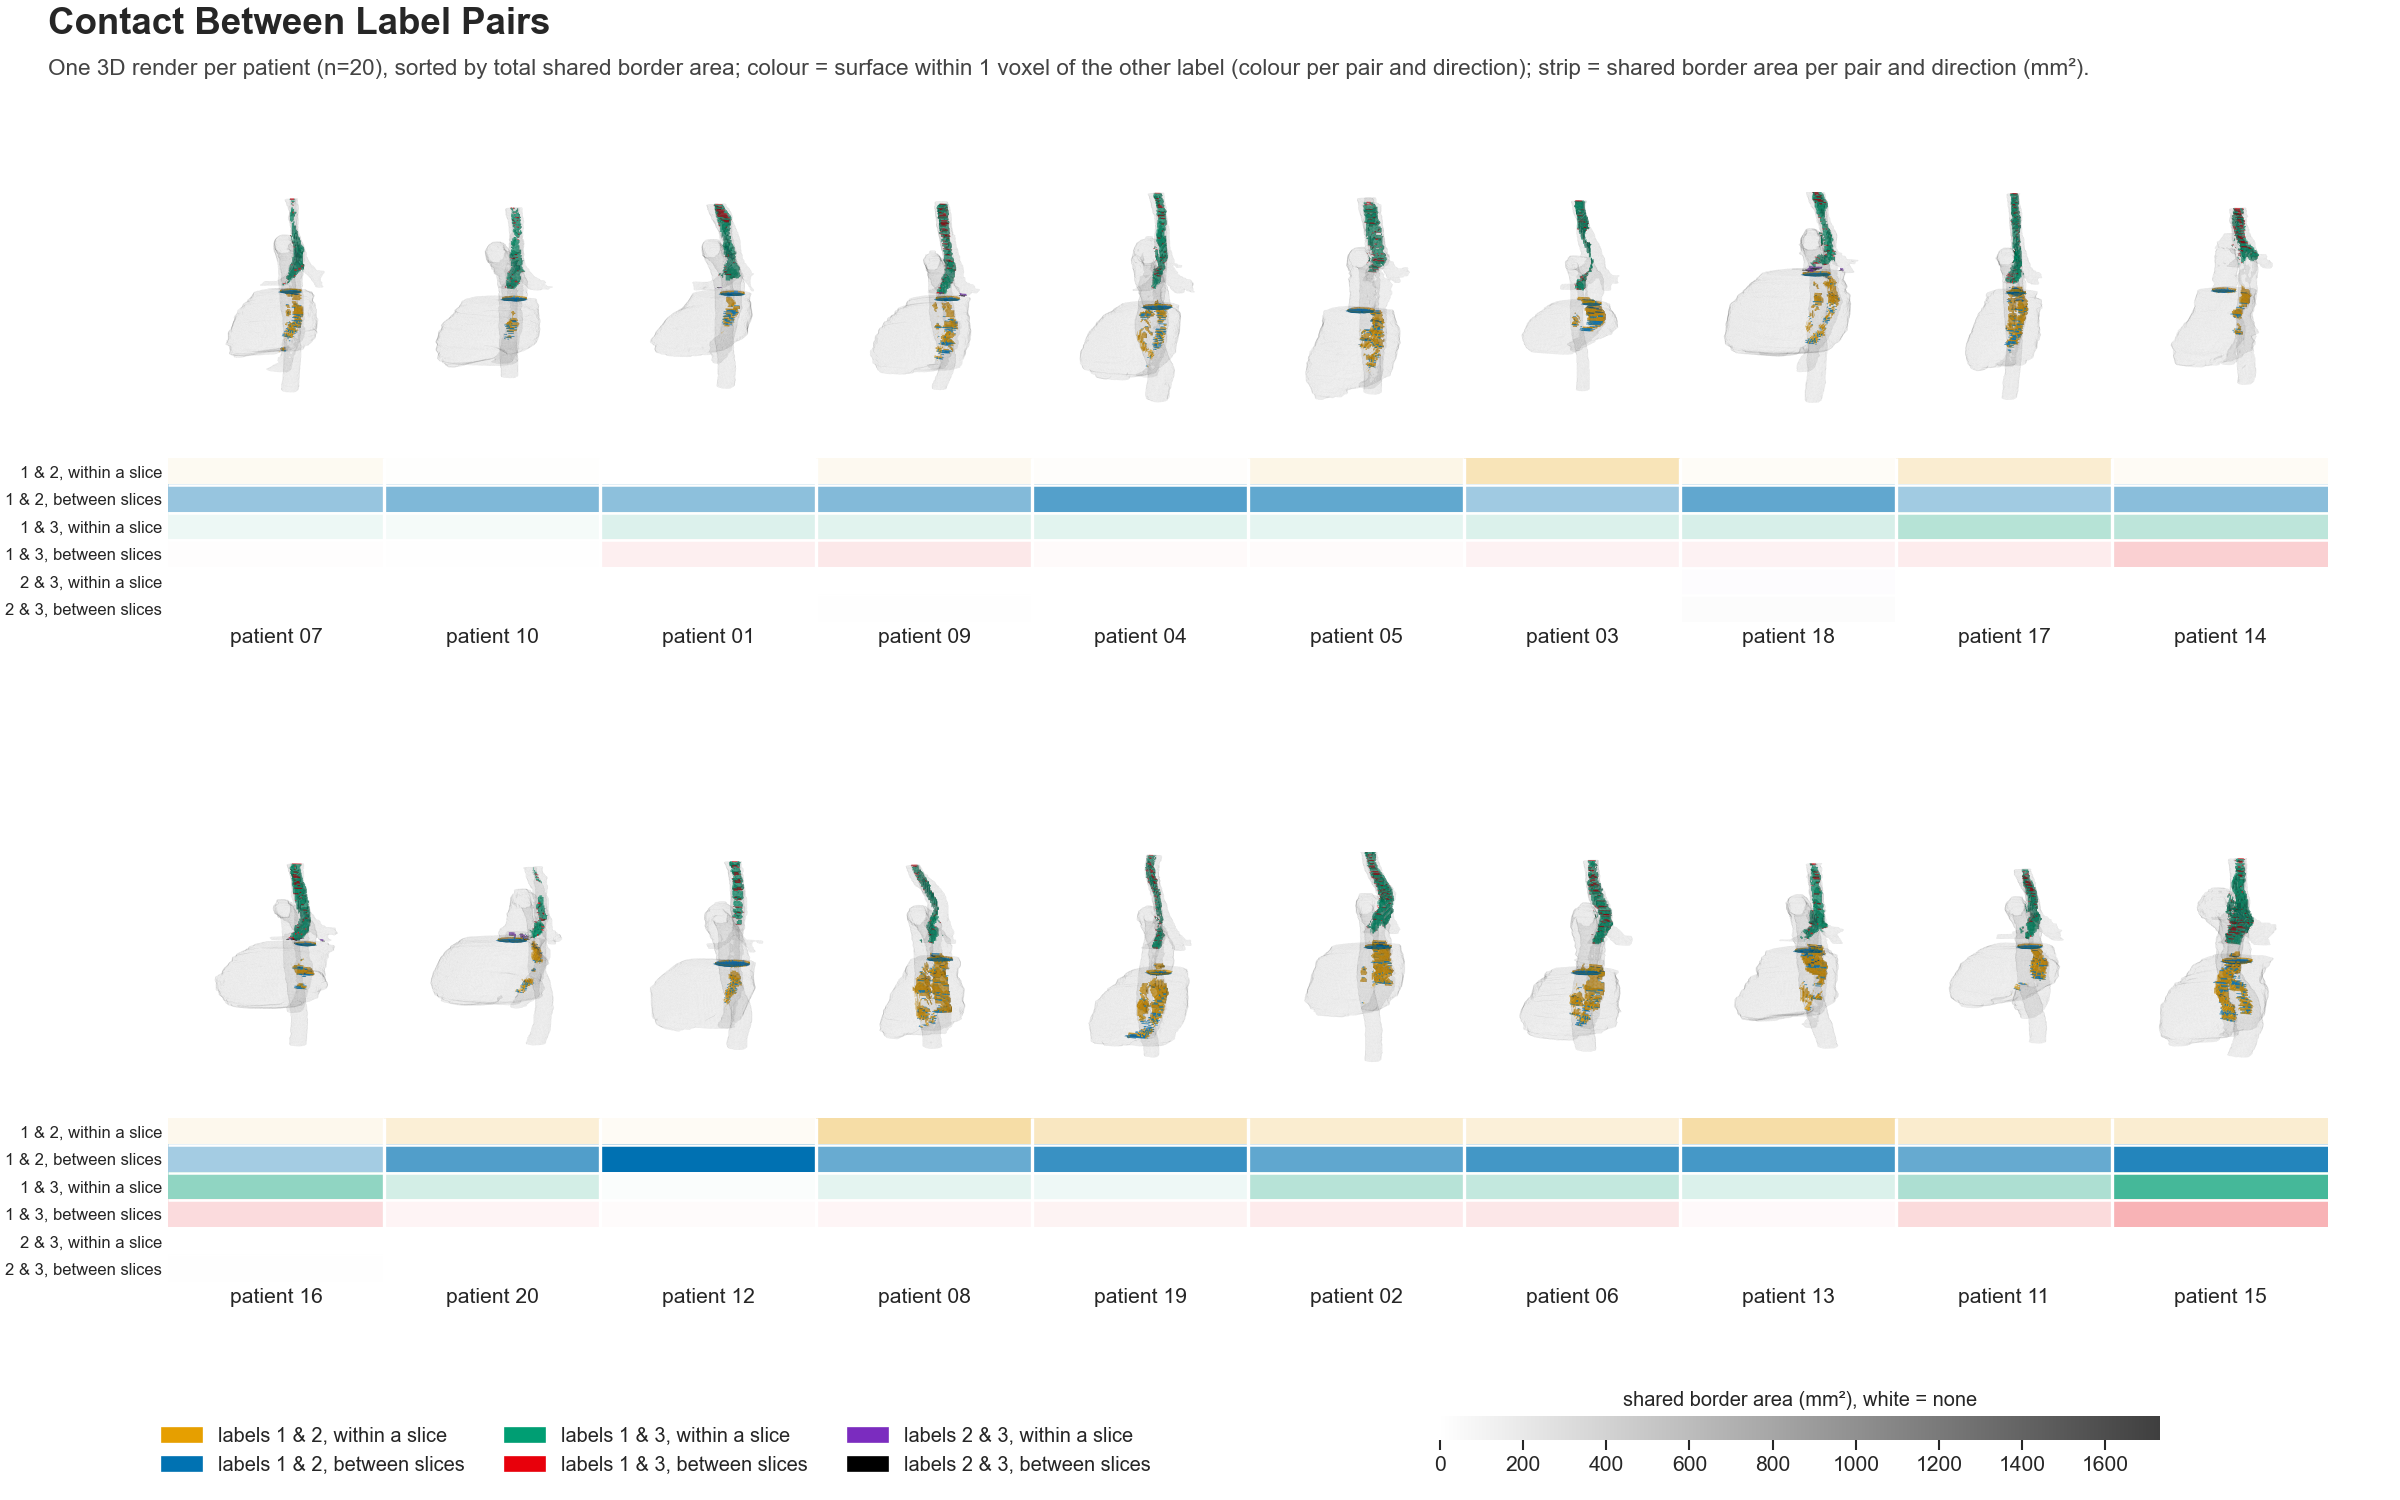
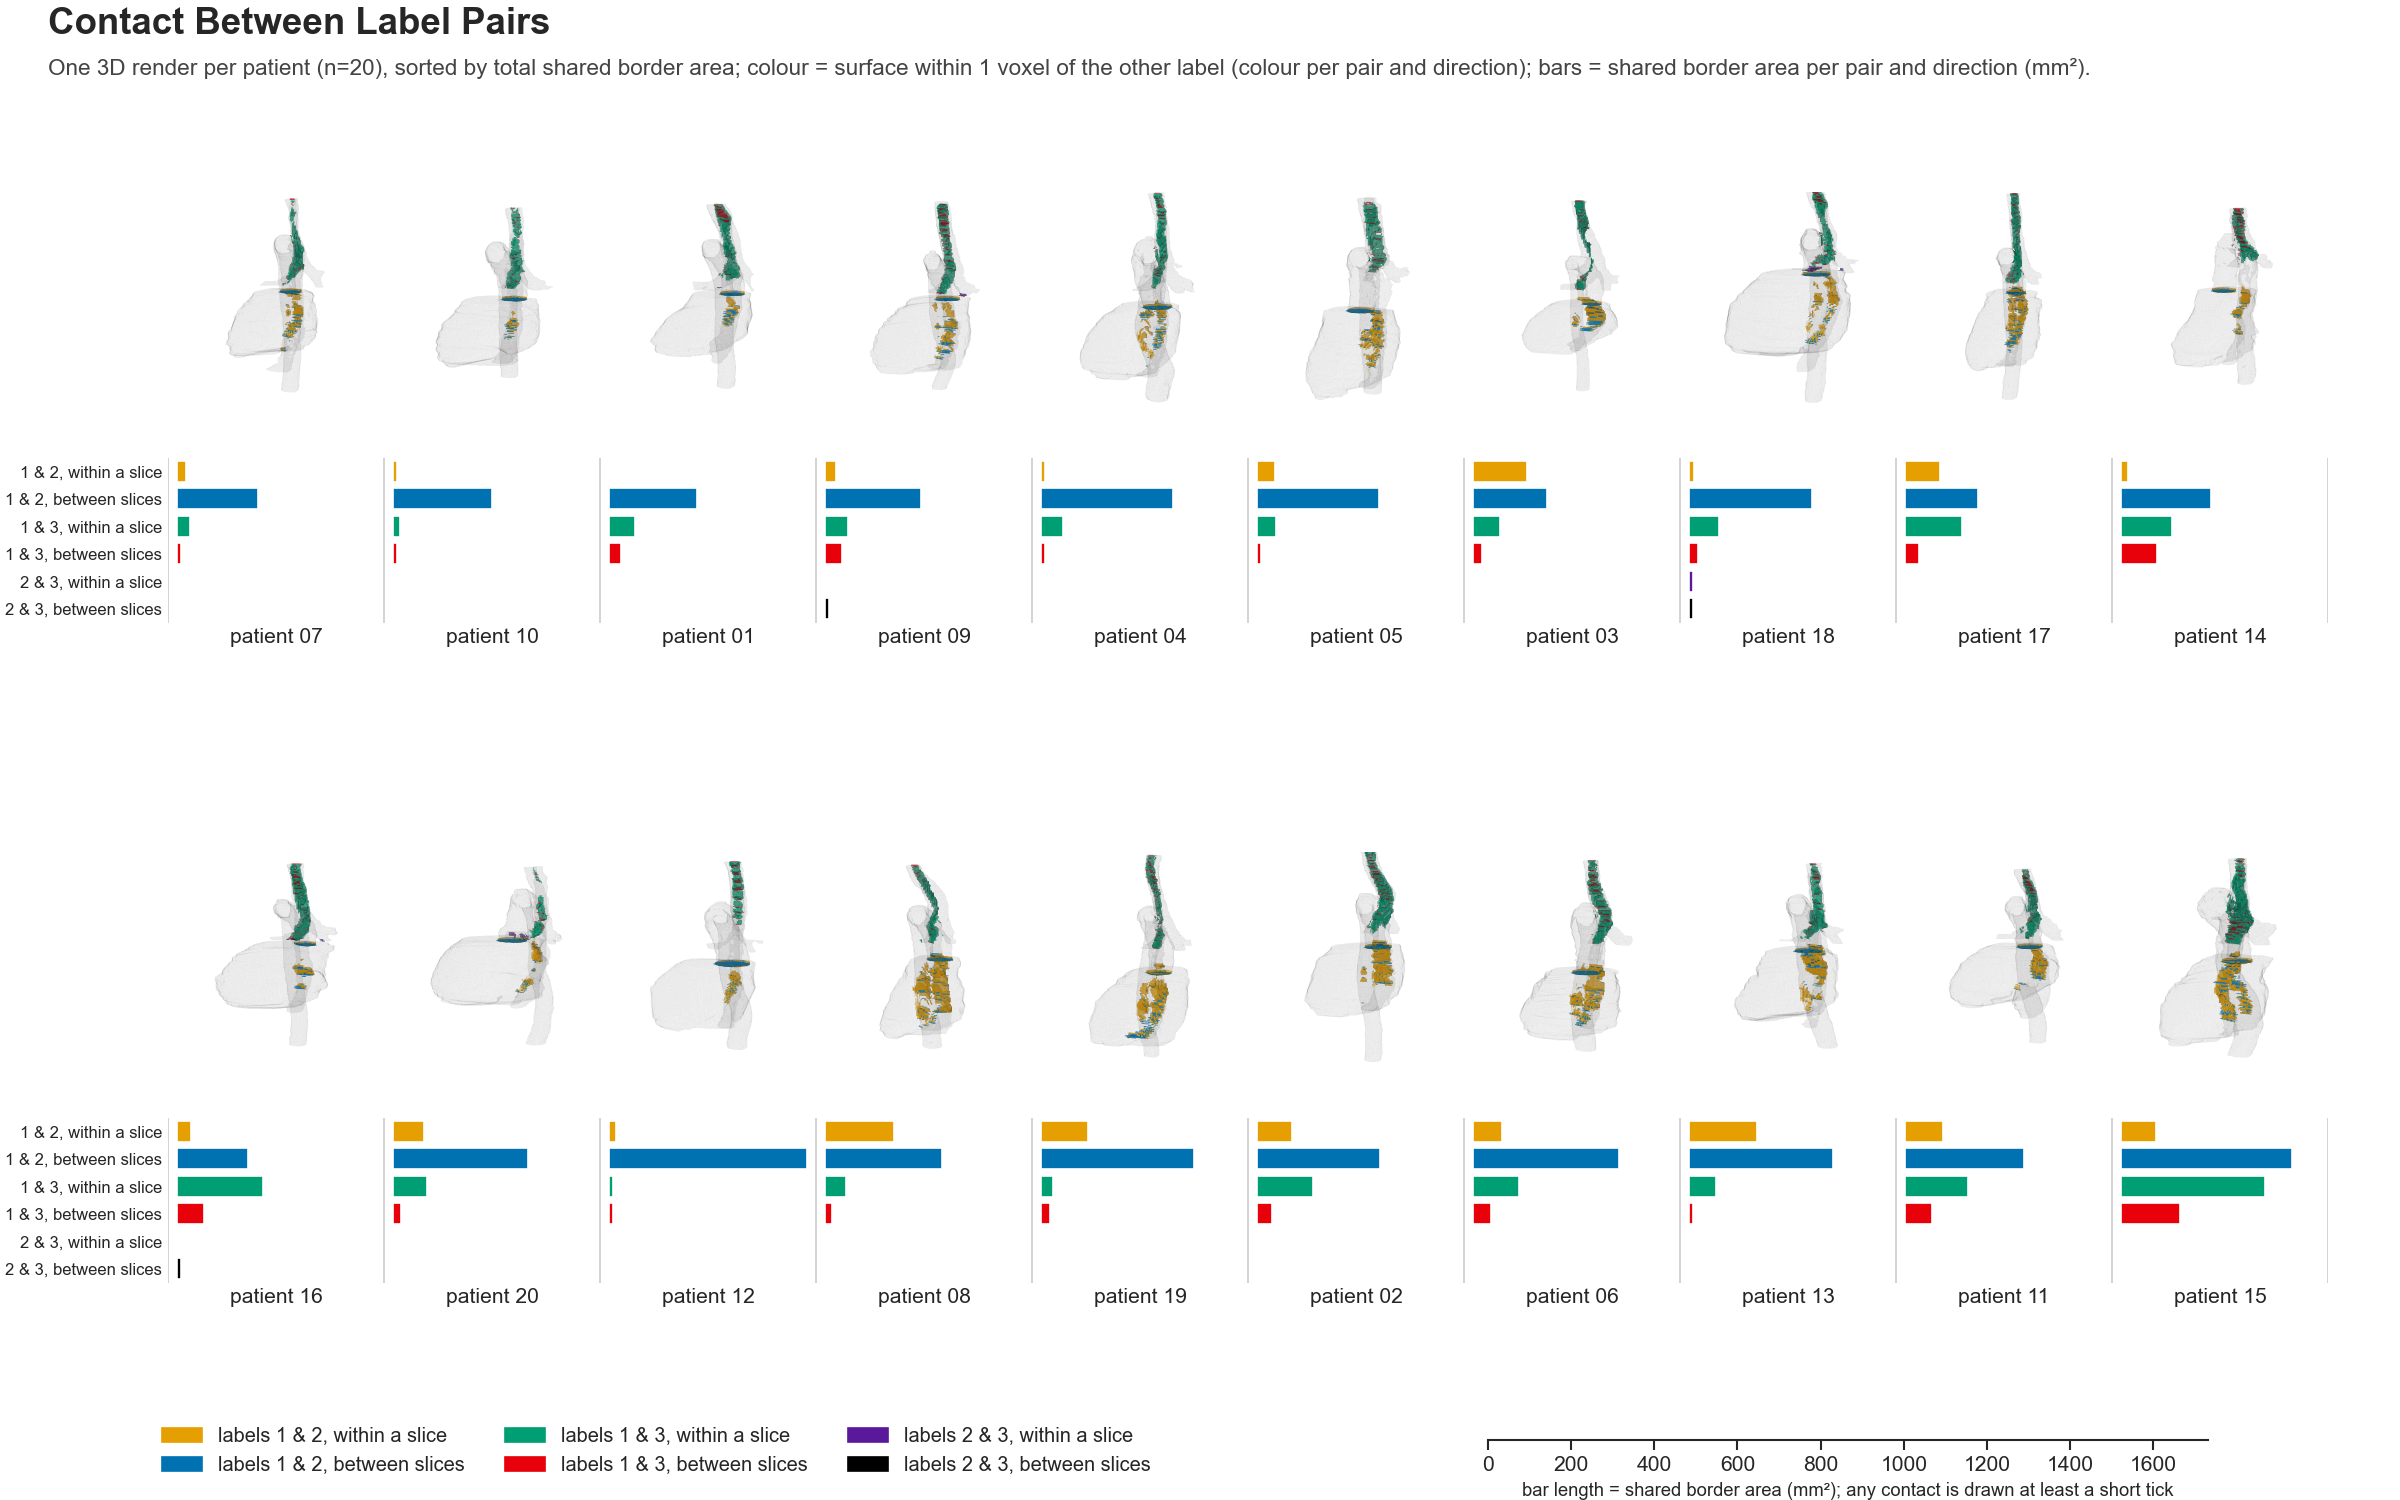
Show label pair contact as bars per pair and direction

diff --git a/dataset_analysis/profile_figures/f13_label_pairs.py b/dataset_analysis/profile_figures/f13_label_pairs.py
@@ -52,11 +52,12 @@ CONTACT_COLORS = {
     ((1, 2), "within a slice"): "#E69F00",
     ((1, 3), "within a slice"): "#009E73",
     ((1, 3), "between slices"): "#E8000B",
-    ((2, 3), "within a slice"): "#7B2CBF",
+    ((2, 3), "within a slice"): "#5A189A",
     ((2, 3), "between slices"): "#000000",
 }
 FACING_UP = 0.7  # |normal z| above this counts a surface patch as facing the neighbouring slice
 SURFACE_RGBA = (0.6, 0.6, 0.6, 0.06)  # faint grey so only the contact patches stand out
+MIN_BAR = 0.02  # any non-zero contact gets at least this bar length (fraction of a patient cell)
 LIGHT = np.array([-0.4, -0.6, 0.7]) / np.linalg.norm([-0.4, -0.6, 0.7])
 
 
@@ -170,25 +171,31 @@ def main():
     area_max = max(area.values())
     for top, row_patients in strips:
         strip = fig.add_axes([left, top - row_h - strip_h + 0.095, col_w * len(row_patients), strip_h])
-        cells = np.ones((len(rows), len(row_patients), 3))
         for i, (pair, direction) in enumerate(rows):
-            share = np.array([area[(p, pair, direction)] for p in row_patients]) / area_max
-            cells[i] = 1 - share[:, None] * (1 - _shade(pair, direction))
-        strip.imshow(cells, aspect="auto", extent=(0, len(row_patients), len(rows), 0))
-        strip.set_xticks(np.arange(len(row_patients)) + 0.5, [f"patient {p[-2:]}" for p in row_patients])
+            vals = np.array([area[(p, pair, direction)] for p in row_patients])
+            width = np.where(vals > 0, np.maximum(0.92 * vals / area_max, MIN_BAR), 0)
+            strip.barh(
+                np.full(len(vals), i + 0.5),
+                width,
+                left=np.arange(len(row_patients)) + 0.04,
+                height=0.75,
+                color=_shade(pair, direction),
+            )
+        strip.set_ylim(len(rows), 0)
         strip.set_yticks(np.arange(len(rows)) + 0.5, [f"{a} & {b}, {d}" for (a, b), d in rows], fontsize=10)
+        strip.vlines(range(len(row_patients) + 1), 0, len(rows), color="#cccccc", lw=1)
+        strip.set_xlim(0, len(row_patients))
+        strip.set_xticks(np.arange(len(row_patients)) + 0.5, [f"patient {p[-2:]}" for p in row_patients])
         strip.tick_params(length=0)
-        strip.hlines(range(1, len(rows)), 0, len(row_patients), color="white", lw=1.5)
-        strip.vlines(range(1, len(row_patients)), 0, len(rows), color="white", lw=2)
         for spine in strip.spines.values():
             spine.set_visible(False)
 
-    key = fig.add_axes([0.6, 0.04, 0.3, 0.016])
-    key.imshow(np.linspace(1, 0.25, 256)[None, :, None].repeat(3, axis=2), aspect="auto", extent=(0, area_max, 0, 1))
+    key = fig.add_axes([0.62, 0.04, 0.3, 0.02])
+    key.set_xlim(0, area_max)
     key.set_yticks([])
-    key.set_title("shared border area (mm²), white = none", fontsize=12)
-    for spine in key.spines.values():
-        spine.set_visible(False)
+    key.set_xlabel("bar length = shared border area (mm²); any contact is drawn at least a short tick", fontsize=11)
+    for sp in ("left", "right", "top"):
+        key.spines[sp].set_visible(False)
     handles = [
         plt.Rectangle((0, 0), 1, 1, color=_shade(p, d), label=f"labels {p[0]} & {p[1]}, {d}")
         for p in PAIRS
@@ -200,7 +207,7 @@ def main():
         "Contact Between Label Pairs",
         f"One 3D render per patient (n={pairs.patient.nunique()}), sorted by total shared border area; "
         "colour = surface within 1 voxel of the other label (colour per pair and direction); "
-        "strip = shared border area per pair and direction (mm²).",
+        "bars = shared border area per pair and direction (mm²).",
         0.95,
     )
     out = out_subdir(args.profile_dir, "13_label_pairs") / "label_pairs_contact_3d.png"
